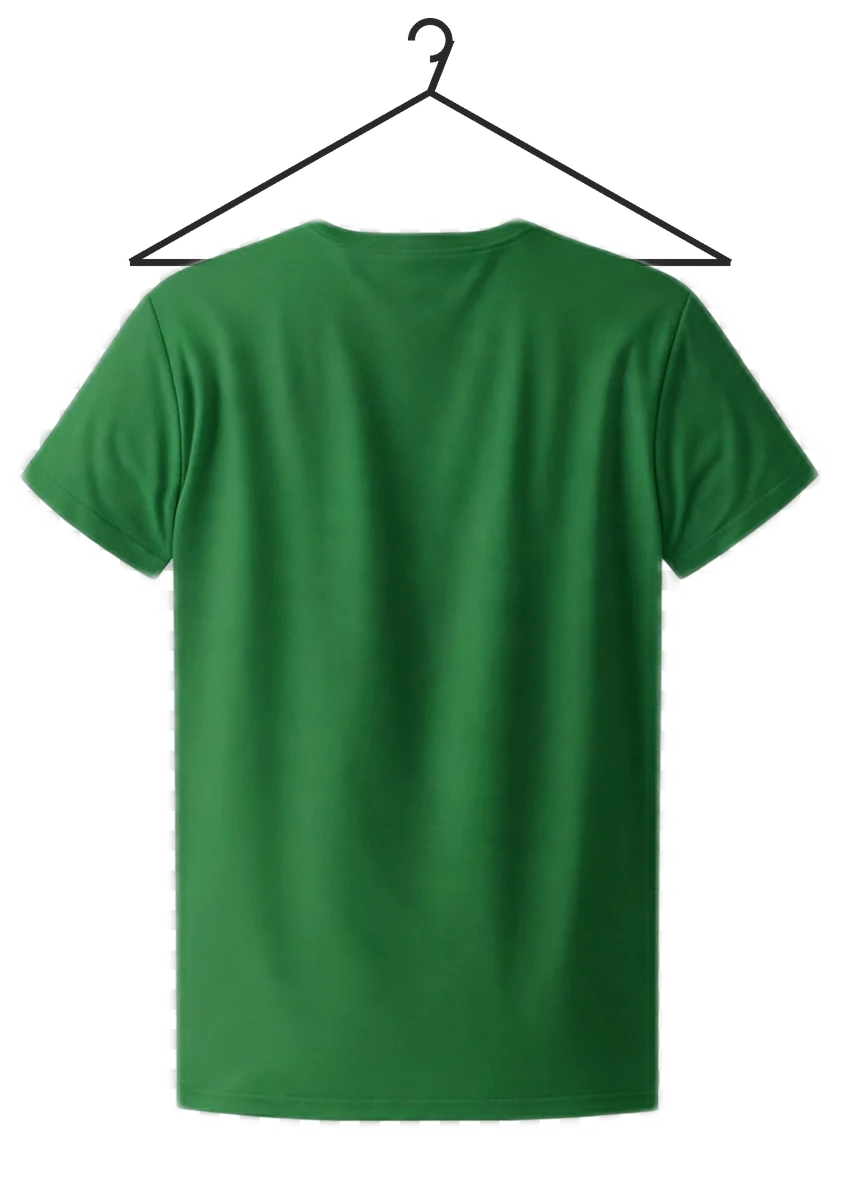
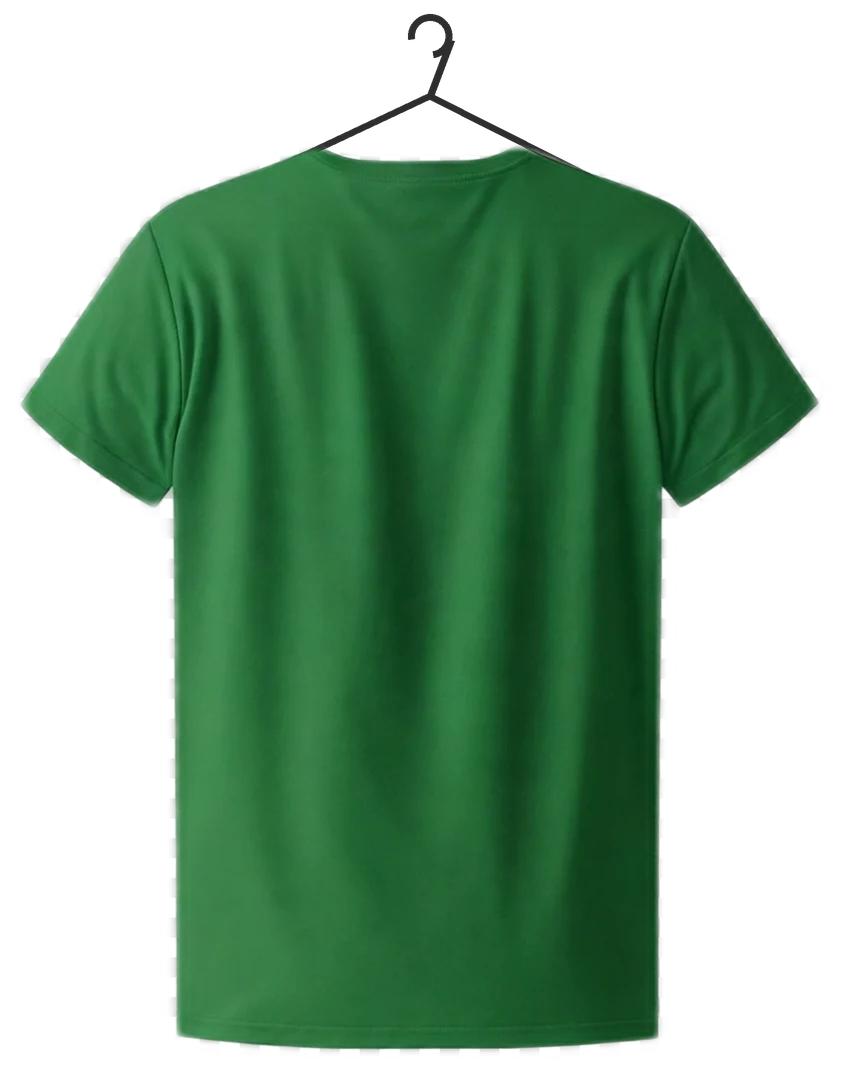
Bigger hanger rail; shirts drape on hangers
Claude-Session: https://claude.ai/code/session_012Ag8ZYiJLwXVgkzoqBDkSP

Changed region(s): [[0.0302, 0.0312, 0.9674, 0.4991], [0.1814, 0.9358, 0.786, 0.967], [0.4837, 0.0, 0.514, 0.0312]]

diff --git a/src/components/Rail.tsx b/src/components/Rail.tsx
@@ -3,7 +3,7 @@ import type { Product } from '../data/products';
 import { ROD_OFFSET_PCT, CURRENCY } from '../lib/config';
 import { fmtPrice } from '../lib/order';
 
-/** All colours hung on one rod. Fits the width on desktop, scrolls sideways on small screens. */
+/** Big garments hanging from one rod; scroll sideways (wheel, swipe, arrows). */
 export default function Rail({ products, onOpen }: { products: Product[]; onOpen: (p: Product) => void }) {
   const ref = useRef<HTMLDivElement>(null);
   useEffect(() => {
@@ -11,16 +11,22 @@ export default function Rail({ products, onOpen }: { products: Product[]; onOpen
     const f = (e: WheelEvent) => { if (Math.abs(e.deltaY) > Math.abs(e.deltaX) && el.scrollWidth > el.clientWidth + 2) { const atEdge = (e.deltaY < 0 && el.scrollLeft <= 0) || (e.deltaY > 0 && el.scrollLeft + el.clientWidth >= el.scrollWidth - 1); if (!atEdge) { e.preventDefault(); el.scrollLeft += e.deltaY; } } };
     el.addEventListener('wheel', f, { passive: false }); return () => el.removeEventListener('wheel', f);
   }, []);
+  const nudge = (d: number) => ref.current?.scrollBy({ left: d * Math.max(260, ref.current.clientWidth * 0.6), behavior: 'smooth' });
   return (
-    <div ref={ref} className="no-scrollbar flex snap-x overflow-x-auto overflow-y-hidden px-2 pt-2 sm:px-4" role="list" aria-label="All colours">
-      {products.map((p) => (
-        <div key={p.id} role="listitem" className="group relative min-w-[64px] flex-1 snap-center">
-          <span aria-hidden className="absolute -left-px -right-px h-[3px] rounded-full bg-gradient-to-b from-neutral-300 via-neutral-500 to-neutral-300" style={{ top: `${ROD_OFFSET_PCT}%` }} />
-          <button onClick={() => onOpen(p)} className="block w-full origin-top group-hover:animate-sway focus-visible:animate-sway" aria-label={`${p.name}, ${fmtPrice(p.price, CURRENCY)}`}>
-            <img src={p.front} alt={p.name} loading="eager" decoding="async" draggable={false} className="block aspect-[860/1180] w-full select-none object-contain" />
-          </button>
-        </div>
-      ))}
+    <div className="relative">
+      <div ref={ref} className="no-scrollbar flex snap-x snap-proximity overflow-x-auto overflow-y-hidden px-3 pt-4 sm:px-8" role="list" aria-label="All colours">
+        {products.map((p) => (
+          <div key={p.id} role="listitem" className="group relative w-[46vw] max-w-[320px] shrink-0 snap-center sm:w-[26vw] lg:w-[21vw]">
+            <span aria-hidden className="absolute -left-px -right-px h-1 rounded-full bg-gradient-to-b from-neutral-300 via-neutral-500 to-neutral-400" style={{ top: `${ROD_OFFSET_PCT}%` }} />
+            <button onClick={() => onOpen(p)} className="block w-full origin-top group-hover:animate-sway focus-visible:animate-sway" aria-label={`${p.name}, ${fmtPrice(p.price, CURRENCY)}`}>
+              <img src={p.front} alt={p.name} loading="eager" decoding="async" draggable={false} className="block aspect-[860/1090] w-full select-none object-contain" />
+            </button>
+          </div>
+        ))}
+        <div aria-hidden className="w-3 shrink-0" />
+      </div>
+      <button onClick={() => nudge(-1)} aria-label="Scroll left" className="absolute left-2 top-1/2 hidden h-11 w-11 -translate-y-1/2 place-items-center rounded-full bg-white/90 text-2xl shadow sm:grid">‹</button>
+      <button onClick={() => nudge(1)} aria-label="Scroll right" className="absolute right-2 top-1/2 hidden h-11 w-11 -translate-y-1/2 place-items-center rounded-full bg-white/90 text-2xl shadow sm:grid">›</button>
     </div>
   );
 }

diff --git a/src/components/Card.tsx b/src/components/Card.tsx
@@ -6,7 +6,7 @@ export default function Card({ p, badge, onOpen }: { p: Product; badge: string; 
   return (
     <button onClick={() => onOpen(p)} className="group relative block w-full rounded-xl border border-neutral-100 bg-white p-2 text-left shadow-sm transition hover:shadow-md" aria-label={`${p.name}, ${fmtPrice(p.price, CURRENCY)}`}>
       <span className="absolute left-2 top-2 z-10 rounded bg-blue-600 px-1.5 py-0.5 text-[10px] font-semibold text-white">{badge}</span>
-      <div className="overflow-hidden rounded-lg bg-neutral-50"><img src={p.front} alt="" loading="eager" decoding="async" draggable={false} className="aspect-[860/1000] w-full object-contain object-top transition group-hover:scale-105" /></div>
+      <div className="overflow-hidden rounded-lg bg-neutral-50"><img src={p.front} alt="" loading="eager" decoding="async" draggable={false} className="aspect-[860/1090] w-full object-contain object-top transition group-hover:scale-105" /></div>
       <p className="mt-2 text-[13px] font-medium text-neutral-800">{p.name}</p>
       <div className="mt-1 flex items-center justify-between">
         <span className="text-sm font-bold text-blue-700">{fmtPrice(p.price, CURRENCY)}</span>

diff --git a/src/components/ProductView.tsx b/src/components/ProductView.tsx
@@ -26,7 +26,7 @@ export default function ProductView({ product, list, onClose, onNav }: { product
       <button onClick={onClose} className="absolute right-5 top-4 z-10 p-2 text-sm tracking-wide sm:right-8" aria-label="Close">Close ✕</button>
       <div className="relative flex min-h-0 w-full max-w-md flex-1 items-center justify-center px-14 pt-12">
         <button onClick={() => step(-1)} aria-label="Previous piece" className="absolute left-2 top-1/2 -translate-y-1/2 p-3 text-3xl sm:-left-10">‹</button>
-        <div className="relative aspect-[860/1180] w-full max-h-[52vh]">
+        <div className="relative aspect-[860/1090] w-full max-h-[52vh]">
           {(['front', 'back'] as const).map((s) => (
             <img key={s} src={product[s]} alt={`${product.name} ${s}`} draggable={false}
               className={`absolute inset-0 h-full w-full select-none object-contain transition-opacity duration-300 ${side === s ? 'opacity-100' : 'opacity-0'}`} />

diff --git a/src/lib/config.ts b/src/lib/config.ts
@@ -7,4 +7,4 @@ export const WHATSAPP: string = ((import.meta as any).env?.VITE_WHATSAPP as stri
 export const CURRENCY = 'Rs.';
 // Vertical position of the rail's rod inside each garment photo, as % of the image height.
 // Real photos with the hanger hook at the very top → about 3. Adjust if the rod looks off.
-export const ROD_OFFSET_PCT = 3.2;
+export const ROD_OFFSET_PCT = 2.3;

diff --git a/src/App.tsx b/src/App.tsx
@@ -58,7 +58,7 @@ function Shell() {
           </div>
         </section>
 
-        <section id="collection" className="border-b border-neutral-100 bg-white pb-2" aria-label="Colours">
+        <section id="collection" className="border-b border-neutral-100 bg-white pb-4" aria-label="Colours">
           <Rail products={PRODUCTS} onOpen={open} />
         </section>
 
